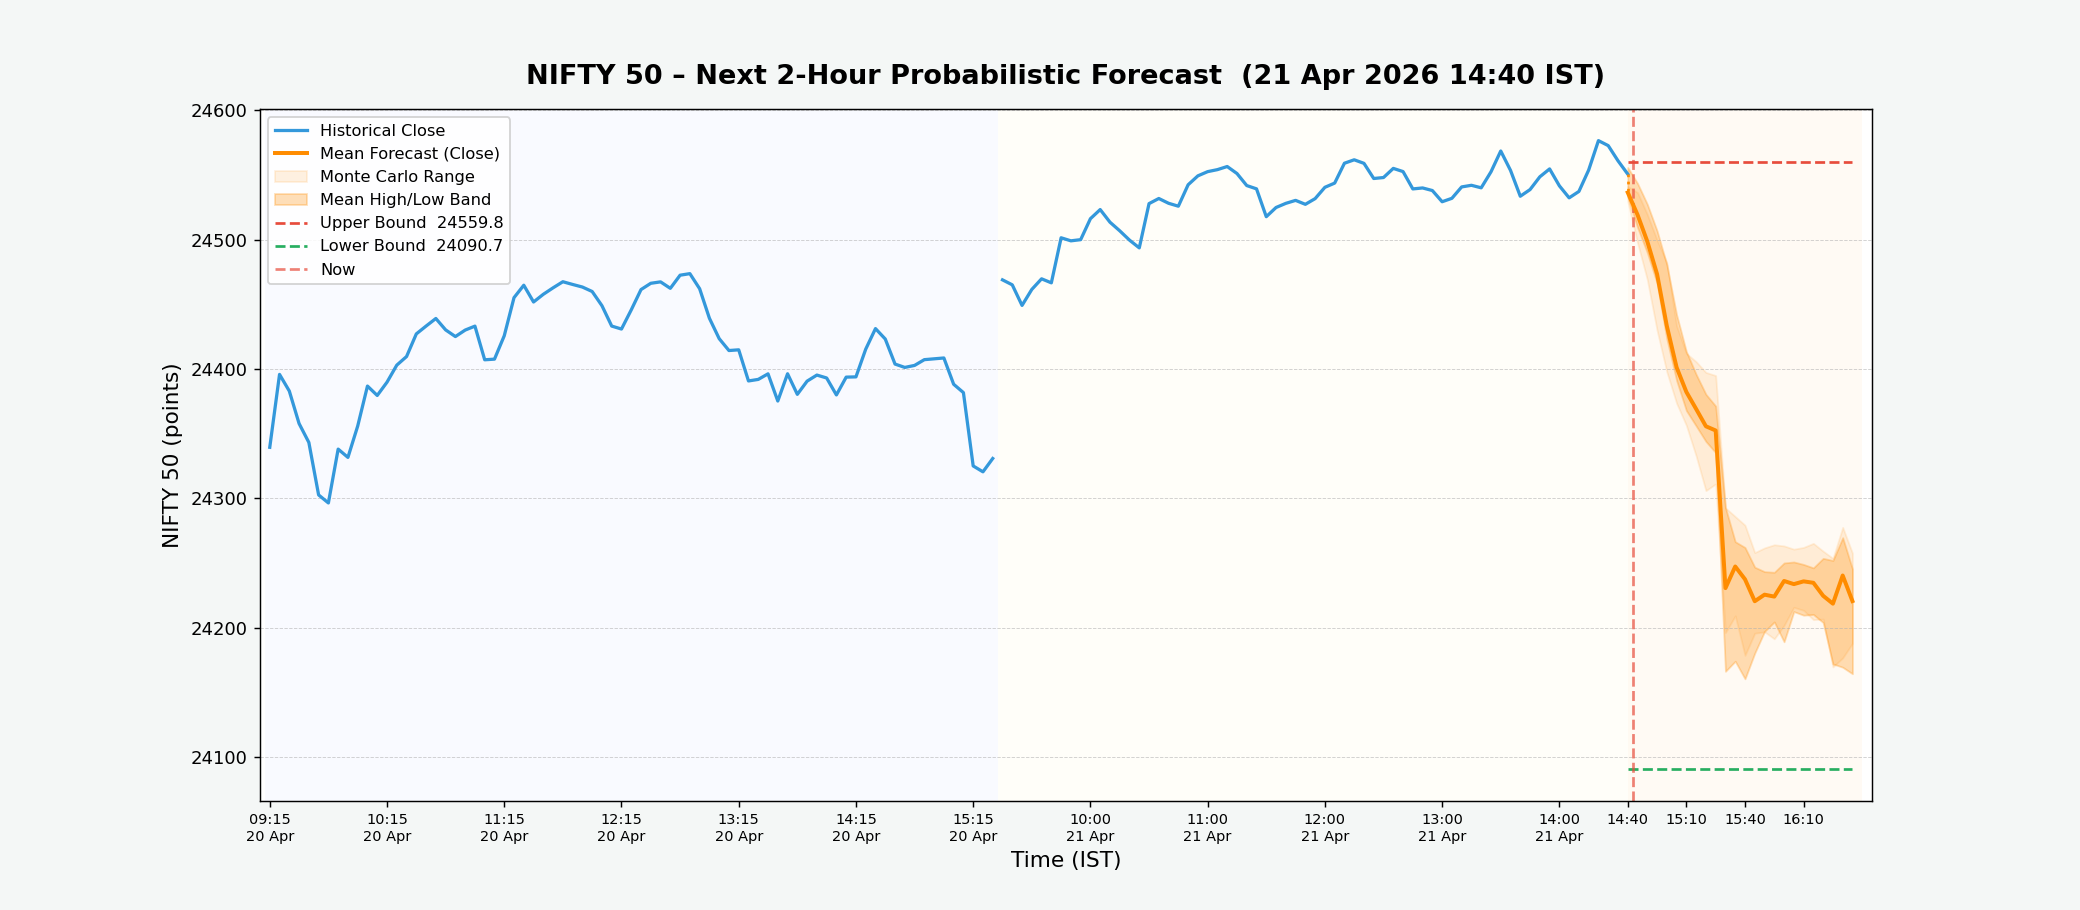
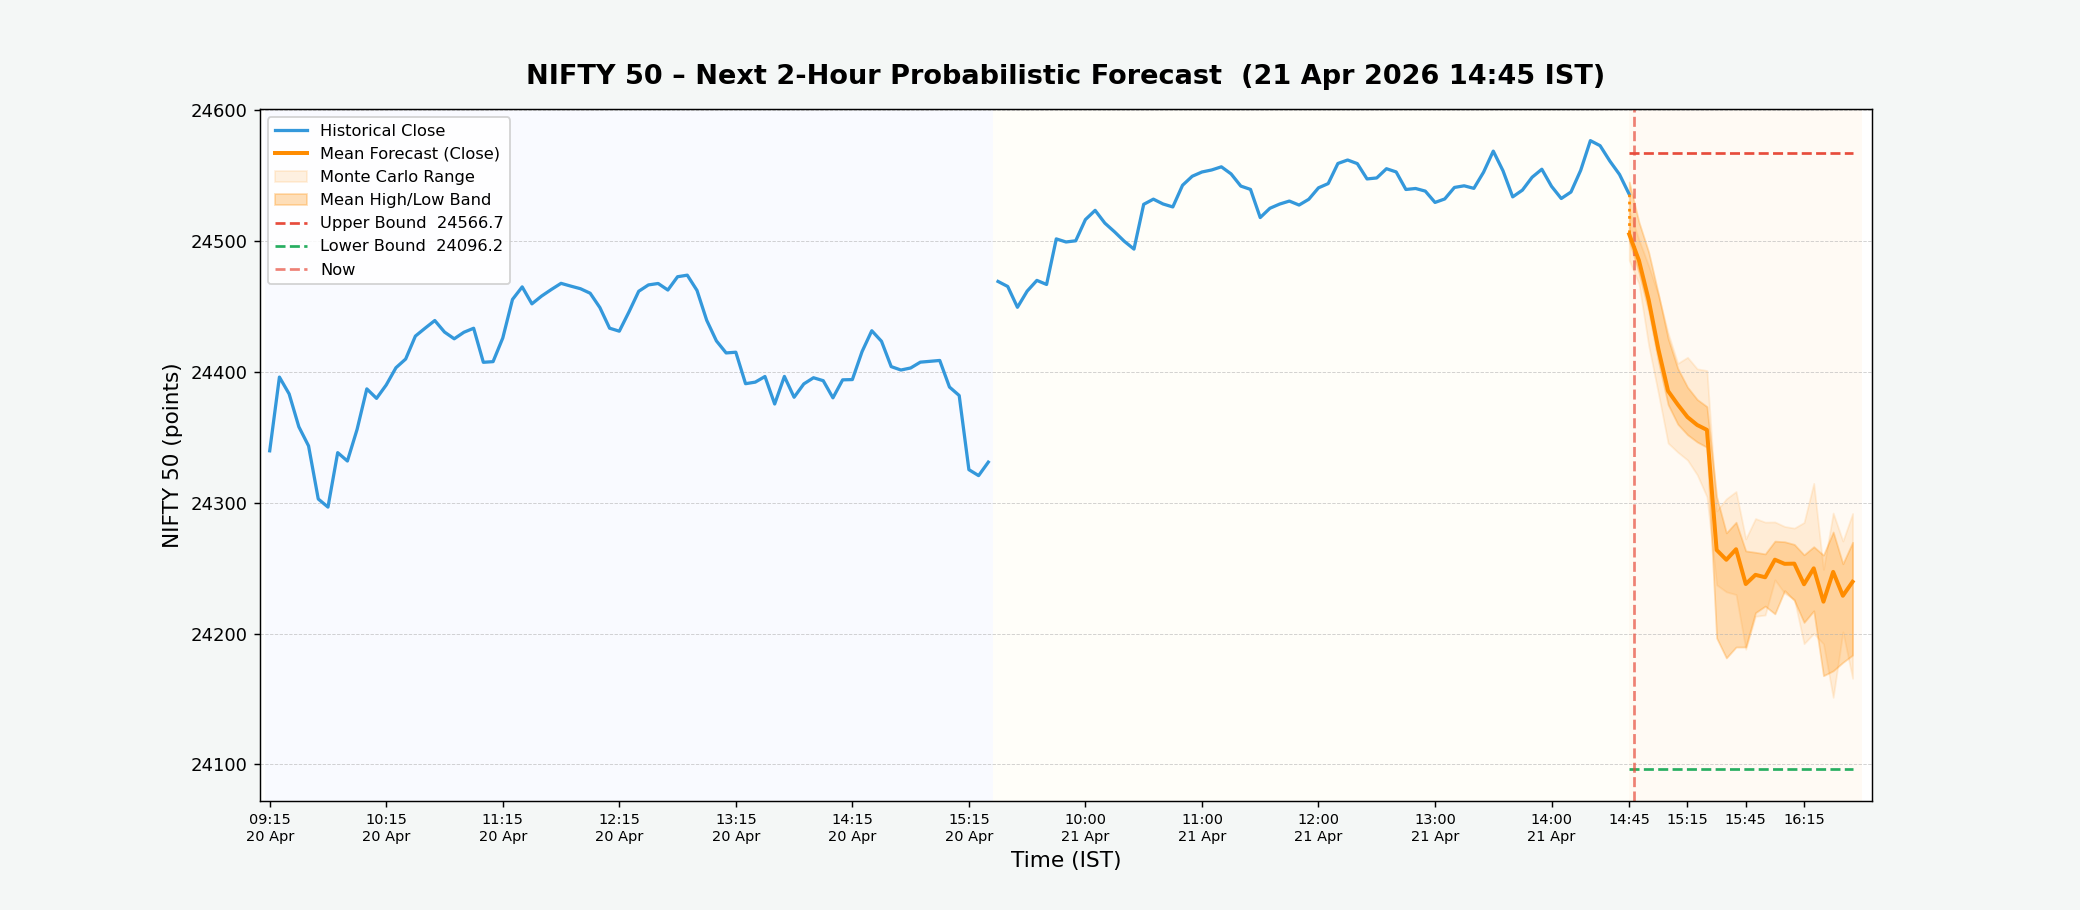
NIFTY forecast update – 2026-04-21 14:45 IST

diff --git a/index.html b/index.html
@@ -24,29 +24,29 @@
 
         <!-- Timestamp bar -->
         <div class="timestamp-bar">
-            <span>Last updated (IST):&nbsp;<strong id="update-time">2026-04-21 14:40:04</strong></span>
+            <span>Last updated (IST):&nbsp;<strong id="update-time">2026-04-21 14:45:04</strong></span>
         </div>
 
         <!-- Metric cards -->
         <div class="metrics-container">
             <div class="metric-card bullish">
                 <div class="metric-label">Bullish Bar Ratio</div>
-                <div class="metric-value" id="upside-prob">35.0%</div>
+                <div class="metric-value" id="upside-prob">37.9%</div>
                 <div class="metric-sub">Next 2h · close &gt; open %</div>
             </div>
             <div class="metric-card upper">
                 <div class="metric-label">Upper Bound</div>
-                <div class="metric-value" id="upper-bound">24559.8</div>
+                <div class="metric-value" id="upper-bound">24566.7</div>
                 <div class="metric-sub">Max predicted high</div>
             </div>
             <div class="metric-card lower">
                 <div class="metric-label">Lower Bound</div>
-                <div class="metric-value" id="lower-bound">24090.7</div>
+                <div class="metric-value" id="lower-bound">24096.2</div>
                 <div class="metric-sub">Min predicted low</div>
             </div>
             <div class="metric-card range">
                 <div class="metric-label">Predicted Range</div>
-                <div class="metric-value" id="pred-range">469.1 pts</div>
+                <div class="metric-value" id="pred-range">470.4 pts</div>
                 <div class="metric-sub">Upper − Lower spread</div>
             </div>
         </div>
